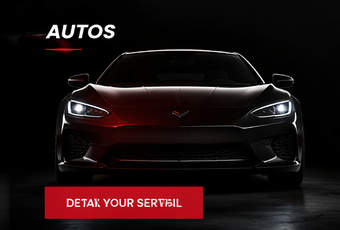
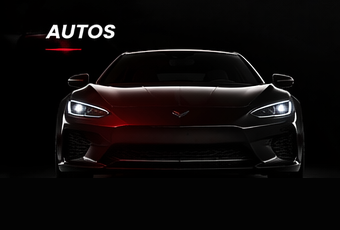
Polish tablet and mobile layouts

Changed region(s): [[0.1176, 0.7913, 0.6176, 1.0], [0.6176, 0.7609, 1.0, 1.0]]

diff --git a/styles.css b/styles.css
@@ -685,6 +685,24 @@ address svg {
   color: var(--red);
 }
 
+@media (max-width: 1100px) {
+  .hero {
+    grid-template-columns: 1fr;
+    min-height: 700px;
+    padding-top: 126px;
+  }
+
+  .hero-copy {
+    max-width: 520px;
+  }
+
+  .hero-car {
+    right: -120px;
+    bottom: 30px;
+    width: 820px;
+    opacity: 0.44;
+  }
+}
 
 
 @media (max-width: 980px) {
@@ -858,6 +876,16 @@ address svg {
 
   .card-content {
     min-height: 235px;
+  }
+
+  .card-content::after {
+    height: 150px;
+    background: #030303;
+  }
+
+  .card-content a {
+    bottom: 34px;
+    box-shadow: none;
   }
 
   .services {